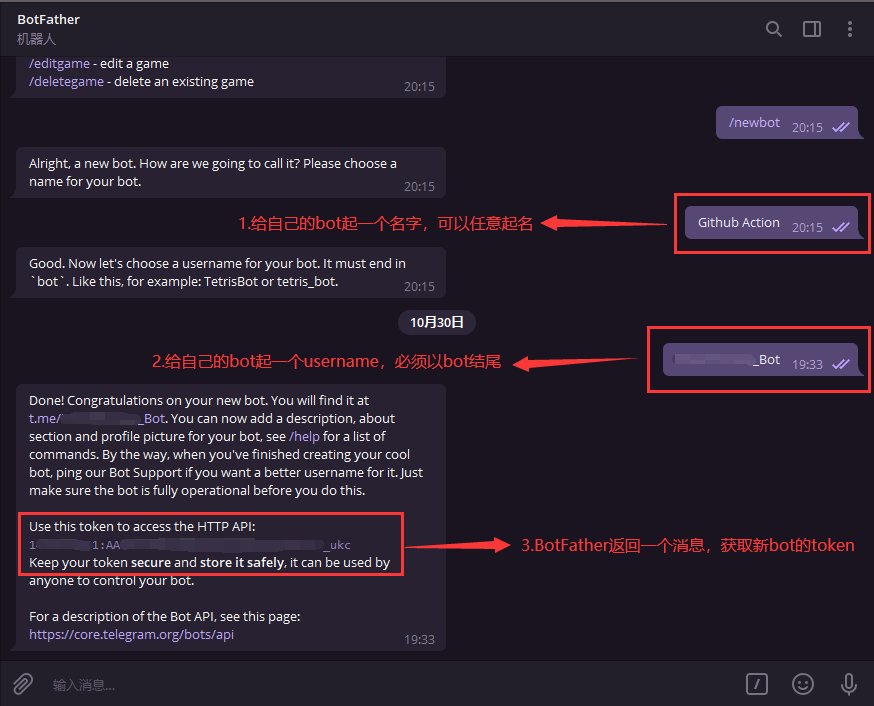
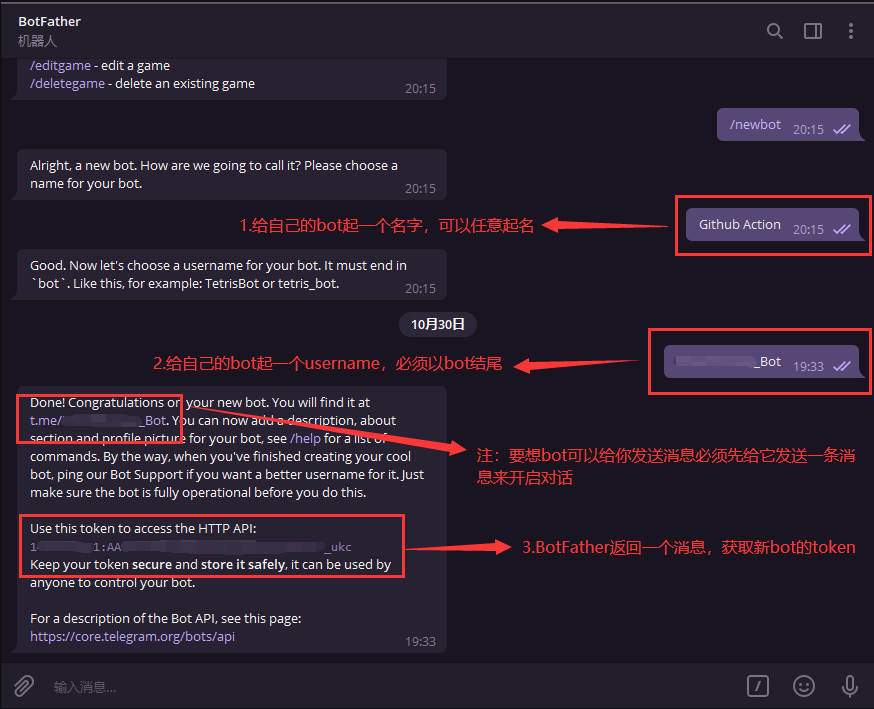
DoveBoy/master

diff --git a/backUp/TG_PUSH.md b/backUp/TG_PUSH.md
@@ -8,7 +8,9 @@
 
 Ⅱ.利用[BotFather](https://t.me/BotFather)创建一个属于自己的通知机器人，按照下图中的1、2、3步骤拿到token，格式形如```10xxx4:AAFcqxxxxgER5uw```。填入```TG_BOT_TOKEN```<br>
 
-![TG_PUSH2](../icon/TG_PUSH2.png)
+![TG_PUSH2](../icon/TG_PUSH2.png)<br>
+
+**新创建的机器人需要跟它发一条消息来开启对话，否则可能会遇到secret填对了但是收不到消息的情况**<br>
 
 Ⅲ.再次在Telegram上搜索[getuserIDbot](https://t.me/getuserIDbot)机器人，获取UserID。填入```TG_USER_ID```<br>
 
